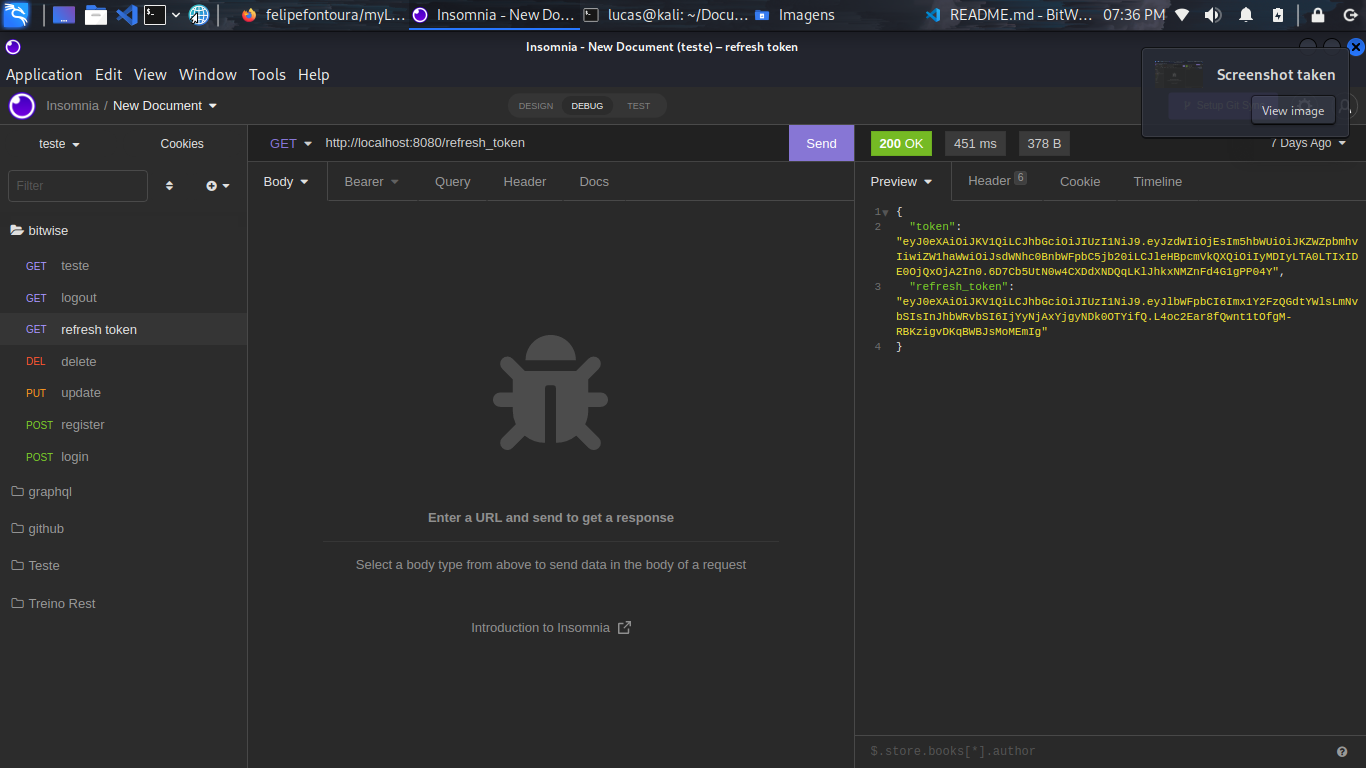
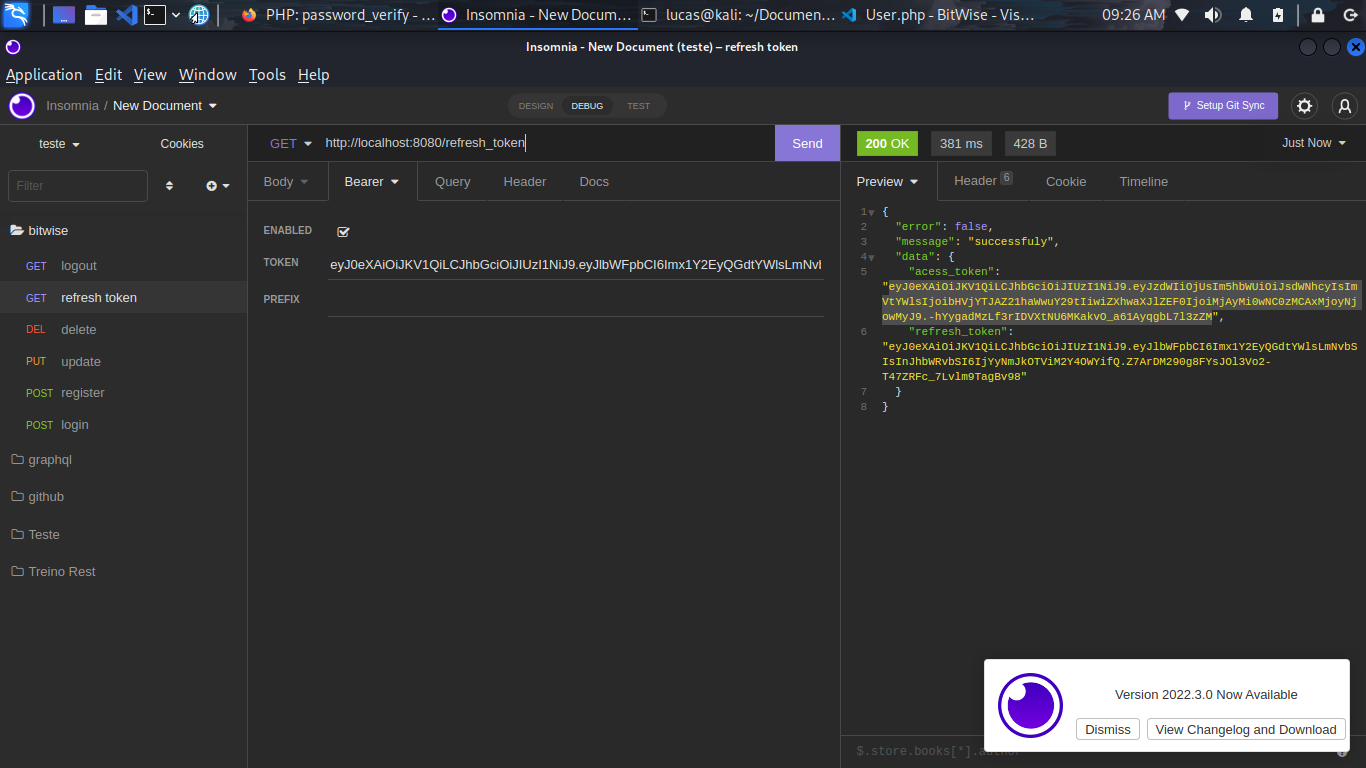
Reformulação do retorno API.

diff --git a/App/Controller/AuthController.php b/App/Controller/AuthController.php
@@ -40,7 +40,9 @@ class AuthController {
             if (is_null($user))
             {
                 $response->getBody()->write(json_encode([
-                    'error' => 'Login ou senha inválidos'
+                    'error'      => true,
+                    'message'   => 'Login ou senha inválidos.',
+                    'data'      => []
                 ]));
     
                 return $response->withStatus(404);
@@ -48,7 +50,9 @@ class AuthController {
             } else if (!password_verify($password, $user->getPassword())) {
 
                 $response->getBody()->write(json_encode([
-                    'error' => 'Login ou senha inválidos'
+                    'error'      => true,
+                    'message'   => 'Login ou senha inválidos.',
+                    'data'      => []
                 ]));
     
                 return $response->withStatus(404);
@@ -59,8 +63,12 @@ class AuthController {
                 $token = $token->CreateToken($user);
 
                 $response->getBody()->write(json_encode([
-                    'token' => $token->getToken(),
-                    'refreshToken' => $token->getRefreshToken()
+                    'error'      => false,
+                    'message'   => 'successfuly',
+                    'data'      => [
+                        'acess_token'         => $token->getToken(),
+                        'refresh_token'  => $token->getRefreshToken()
+                    ]
                 ]));
     
                 return $response->withStatus(200);
@@ -69,14 +77,18 @@ class AuthController {
         }catch (TokenException $e) {
 
             $response->getBody()->write(json_encode([
-                'Token error' => $e->getMessage()
+                'error'      => true,
+                'message'   => $e->getMessage(),
+                'data'      => []
             ]));
 
             return $response->withStatus(500);
 
         }catch (\Exception $e) {
             $response->getBody()->write(json_encode([
-                'error' => $e->getMessage()
+                'error'      => true,
+                'message'   => $e->getMessage(),
+                'data'      => []
             ]));
 
             return $response->withStatus(500);
@@ -97,14 +109,20 @@ class AuthController {
 
             $tokenDao->logout($user);
 
-            $response->getBody()->write(json_encode(['succesfully']));
+            $response->getBody()->write(json_encode([
+                'error'      => false,
+                'message'   => 'successfuly',
+                'data'      => []
+            ]));
 
             return $response->withStatus(200);
 
         } catch (TokenException $e) {
 
             $response->getBody()->write(json_encode([
-                'Token error' => $e->getMessage()
+                'error'      => true,
+                'message'   => $e->getMessage(),
+                'data'      => []
             ]));
 
             return $response->withStatus(500);
@@ -112,7 +130,9 @@ class AuthController {
         } catch (\Exception $e) {
 
             $response->getBody()->write(json_encode([
-                'error' => $e->getMessage()
+                'error'      => true,
+                'message'   => $e->getMessage(),
+                'data'      => []
             ]));
 
             return $response->withStatus(500);
@@ -157,8 +177,12 @@ class AuthController {
             $tokenModel->CreateToken($user);
 
             $response->getBody()->write(json_encode([
-                "token" => $tokenModel->getToken(),
-                "refresh_token" => $tokenModel->getRefreshToken()
+                'error'      => false,
+                'message'   => 'successfuly',
+                'data'      => [
+                    "acess_token"   => $tokenModel->getToken(),
+                    "refresh_token" => $tokenModel->getRefreshToken()
+                ]
             ]));
 
             return $response->withStatus(200);
@@ -166,14 +190,18 @@ class AuthController {
         } catch (TokenException $e) {
 
             $response->getBody()->write(json_encode([
-                'Token error' => $e->getMessage()
+                'error'      => true,
+                'message'   => $e->getMessage(),
+                'data'      => []
             ]));
 
             return $response->withStatus(500);
 
         } catch (\Exception $e) {
             $response->getBody()->write(json_encode([
-                'error' => $e->getMessage()
+                'error'      => true,
+                'message'   => $e->getMessage(),
+                'data'      => []
             ]));
 
             return $response->withStatus(500);

diff --git a/App/Controller/UserController.php b/App/Controller/UserController.php
@@ -38,21 +38,27 @@ class UserController {
             $user = $userDao->save($user);
 
             $response->getBody()->write(json_encode([
-                'successfully'
+                'error'      => false,
+                'message'   => 'successfully',
+                'data'      => $user->getValues()
             ]));
 
             return $response->withStatus(201);
 
         } catch (UserException $e) {
             $response->getBody()->write(json_encode([
-                'User error' => $e->getMessage()
+                'error'      => true,
+                'message'   => $e->getMessage(),
+                'data'      => []
             ]));
 
             return $response->withStatus(400);
         }catch (\Exception $e)
         {
             $response->getBody()->write(json_encode([
-                'error' => $e->getMessage()
+                'error'      => true,
+                'message'   => $e->getMessage(),
+                'data'      => []
             ]));
 
             return $response->withStatus(500);
@@ -86,7 +92,9 @@ class UserController {
             $user = $userDao->update($user);
 
             $response->getBody()->write(json_encode([
-                'successfully'
+                'error'      => false,
+                'message'   => 'succesfully',
+                'data'      => $user->getValues()
             ]));
 
             return $response->withStatus(201);
@@ -94,14 +102,18 @@ class UserController {
         } catch (UserException $e) {
             
             $response->getBody()->write(json_encode([
-                'User error' => $e->getMessage()
+                'error'      => true,
+                'message'   => $e->getMessage(),
+                'data'      => []
             ]));
 
             return $response->withStatus(400);
 
         } catch (\Exception $e) {
             $response->getBody()->write(json_encode([
-                'error' => $e->getMessage()
+                'error'      => true,
+                'message'   => $e->getMessage(),
+                'data'      => []
             ]));
 
             return $response->withStatus(500);
@@ -127,7 +139,9 @@ class UserController {
             $userDao->delete($idUser);
             
             $response->getBody()->write(json_encode([
-                'successfully'
+                'error'      => false,
+                'message'   => 'successfuly',
+                'data'      => []
             ]));
 
             return $response->withStatus(201);
@@ -135,14 +149,18 @@ class UserController {
         } catch (UserException $e) {
             
             $response->getBody()->write(json_encode([
-                'User error' => $e->getMessage()
+                'error'      => true,
+                'message'   => $e->getMessage(),
+                'data'      => []
             ]));
 
             return $response->withStatus(400);
 
         } catch (\Exception $e) {
             $response->getBody()->write(json_encode([
-                'error' => $e->getMessage()
+                'error'      => true,
+                'message'   => $e->getMessage(),
+                'data'      => []
             ]));
 
             return $response->withStatus(500);

diff --git a/App/Middlewares/VerifyLogin.php b/App/Middlewares/VerifyLogin.php
@@ -38,7 +38,9 @@ class VerifyLogin extends Middleware{
             $response = new Response();
 
             $response->getBody()->write((string) $response->getBody() . json_encode([
-                'error' => "Acesso negado."
+                'error'      => true,
+                'message'    => "Acesso negado.",
+                'data'       => []
             ]));
 
             return $response->withStatus(401);

diff --git a/App/Middlewares/DateTimeExpired.php b/App/Middlewares/DateTimeExpired.php
@@ -35,7 +35,9 @@ class DateTimeExpired extends Middleware {
             $response = new Response();
 
             $response->getBody()->write((string) $response->getBody() . json_encode([
-                "Expired Token"
+                'error'      => true,
+                'message'   => "Expired Token",
+                'data'      => []
             ]));
 
             return $response->withStatus(401);
